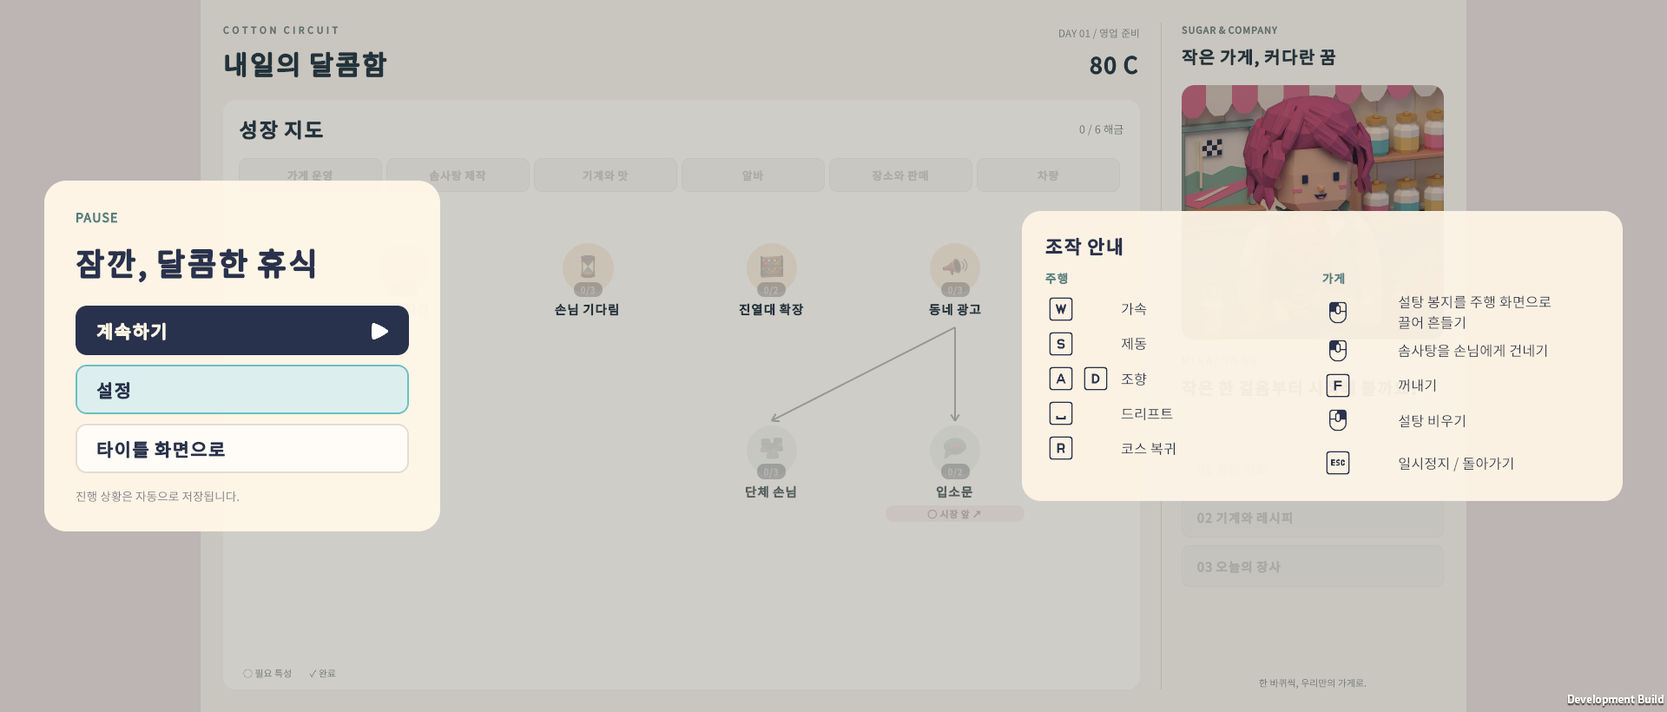
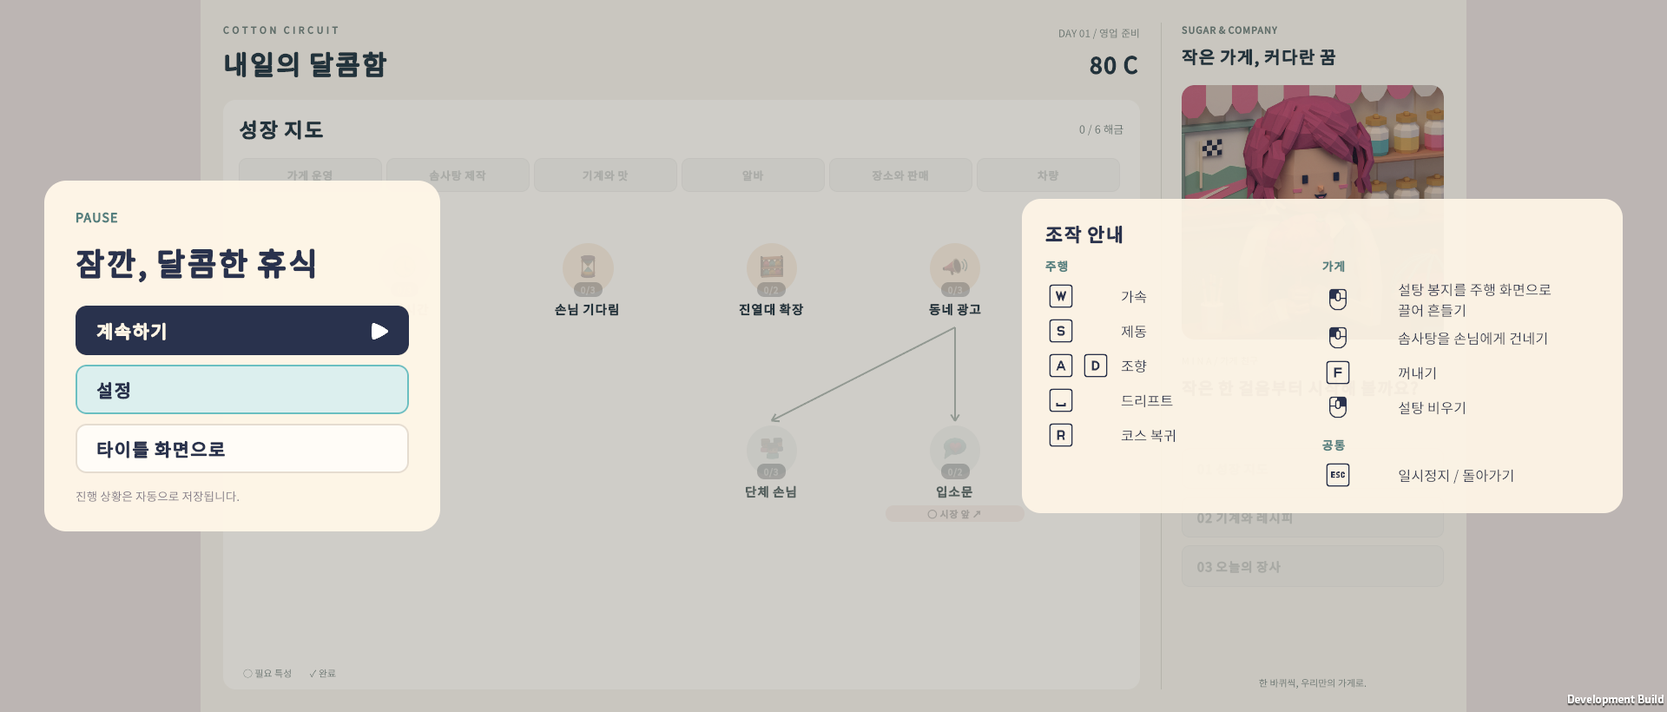
Record the final fix wave verification
The verification record now lists the twelve review fixes and the checks
that cover them, the single remaining overflow exemption with the probe
evidence behind removing the other seventeen, the twelve smoke runs on a
clean Builds/Loc-Final (928/33/878/106/18/242 checks per language), Core
tests, the release build and its 10 s launch, and refreshed screenshots
including the legacy pause and a live language switch over preparation.

diff --git a/docs/localization-settings-verification.md b/docs/localization-settings-verification.md
@@ -1,6 +1,23 @@
 # 영어 커버리지 검사와 릴리스 검증
 
-2026-09-29, Unity 6000.5.3f1 Windows. 브랜치 `claude/localization-settings` (Task 11, 기준 커밋 `a0d4283`).
+2026-09-29, Unity 6000.5.3f1 Windows. 브랜치 `claude/localization-settings`. Task 11(기준 커밋 `a0d4283`)에서 처음 기록했고, 브랜치 전체 리뷰 뒤 최종 수정(기준 커밋 `7ff2c20`)에서 넘침 예외·실행 기록·검사 목록을 다시 맞췄다.
+
+## 최종 리뷰 수정에서 바뀐 것
+
+| 번호 | 내용 | 새 검사 |
+|---|---|---|
+| 1 | 영업 준비 화면의 데이터 지문(`PreparationDataFingerprint`)에 `Strings.Version`을 넣었다. 일시정지 설정창에서 언어를 바꾸면 특성·장비·장소 문구도 새 언어로 다시 그린다. | `settings`: 영업 준비 위에서 언어를 바꾼 뒤 `PreparationTraitCount`, `PreparationMachineName_0`, 바인딩된 `pause.title`이 새 언어인지 보고, 바꾼 화면을 `settings-pause-switched.png`로 캡처(영어로 바뀌면 한글 누출 검사도 적용)한 뒤 되돌려 다시 본다. 지문 줄을 뺀 임시 빌드에서는 이 검사가 실패했다. |
+| 2 | 넘침 검사의 측정 방법을 고치고 예외를 한 개만 남겼다. | 아래 "넘침 검사"와 "기존 한국어 넘침" 참고. |
+| 3 | 설정창이 마지막으로 초점을 가진 행을 기억해, 카드 빈 곳이나 어두운 바깥을 눌러 초점이 사라지면 그 행에 초점을 돌려준다. 행 안의 화살표·음소거·슬라이더는 원래도 누르면 그 행에 초점을 줬다. | `settings`: 언어 화살표, 슬라이더 누르기, 음소거 버튼, 카드 빈 곳, 바깥 클릭 뒤 정확히 어느 행에 초점이 있는지 확인. 스모크의 `Key()`는 초점이 없으면 실제 입력처럼 패널 루트로 보낸다. 가드를 빼고 돌리면 카드 빈 곳 클릭 뒤 초점이 없어 실패했다. |
+| 4 | 슬라이더를 끄는 동안은 값만 바로 적용하고 `settings.json`은 손을 뗄 때(`PointerCaptureOutEvent`), 키보드로 값을 바꿀 때, 창을 닫을 때 쓴다(`SettingsStore.Apply(change, persist: false)`, `SettingsStore.Save()`). | `settings`: 슬라이더 값을 바꾼 직후 파일은 그대로, 음악 슬라이더 트랙을 눌렀다 떼면 파일에 새 값. |
+| 5 | Tab·Shift+Tab(`Next`/`Previous`)은 값을 바꾸지 않고 ↓·↑처럼 행만 옮긴다. | `settings`: Tab, Shift+Tab 뒤 초점 행과 음량. |
+| 6 | 없는 키를 처음 요청하면 `Strings.MissingKey`가 한 번 알리고, `Localization`이 개발 빌드·에디터에서 `Debug.LogWarning`으로 남긴다. | Core 테스트: 키마다 한 번만 알림. 열두 번의 스모크 로그에 경고 없음. |
+| 7 | `Strings.Validate`가 `string.Format`이 거부하는 값(짝 없는 중괄호)도 찾는다. | Core 테스트: 중괄호가 남은 값은 문제 1건, `{{…}}`는 문제 없음. |
+| 8 | `Art/UI/kenney_input-prompts_1.5.zip`을 다른 Kenney 압축 파일처럼 커밋했다. | — |
+| 9 | 일시정지 조작 안내에 `공통`(`pause.common`, `General`) 묶음을 따로 두고 `Esc`를 옮겼다. 가게 묶음 아래 같은 라벨 열에 있고 모든 모드에서 보인다. 이전 모드는 가게 묶음 전체를 숨긴다. | `full`: 영업 일시정지에서 가게·공통 묶음이 보임. `full`·`legacy`: 이전 모드 일시정지(`11-legacy-pause.png`)에서 공통 묶음만 보이고 가게 제목이 없음. |
+| 10 | 영어 문구 네 곳: `tutorial.step3.cue`, `trait.stick_quality.desc`/`trait.quality_focus.desc`(`%p` → `pts`), `notice.drift.kart`, `business.grade`(`Grade {0} sugar`). 한국어는 그대로다. | — |
+| 11 | 설계 문서의 키캡 가져오기 설정과 검사 위치 설명을 실제와 맞췄다(아래 3절). | — |
+| 12 | 쓰지 않는 `Strings.Keys`를 지우고 `GameSettings.Clamp`를 `if`로 풀어 썼다(동작 같음). | Core 테스트: ±무한대가 1과 0으로 제한됨. |
 
 ## 변경
 
@@ -9,75 +26,69 @@
 `ToolkitRuntimeSmoke.Capture(name)`가 스크린샷을 찍기 직전에 `CheckVisibleText(name)`을 부른다. 모든 `UIDocument`의 화면에 보이는 `TextElement`를 모두 훑어서 다음을 확인한다.
 
 - 영어일 때 한글이 남아 있으면 실패.
-- `MeasureTextSize`로 잰 글자 크기가 요소의 내용 폭(줄바꿈 라벨은 높이)을 넘으면 실패. 이름이 `OverflowExempt`에 있는 요소는 제외한다.
+- `MeasureTextSize`로 잰 글자 크기가 요소 내용 상자를 넘으면 실패. 줄바꿈 라벨(`white-space: normal`, `pre-wrap`)은 내용 폭 + 1.5px에서 잰 높이만, 줄바꿈하지 않는 라벨은 폭과 높이를 1.5px 여유로 비교한다. 이름이 `OverflowExempt`에 있는 요소는 제외한다.
 - `Strings.Missing`에 키가 남아 있으면 실패.
 
-이 검사는 `full`·`legacy`·`rack`·`hud`·`music`·`settings` 여섯 케이스가 이미 찍던 모든 캡처(약 30곳, 해상도 스윕 포함)에 자동으로 적용된다. 새 `06-closing-receipt.png` 캡처(영업 마감 직후, `businessNextDay`를 누르기 전)도 `full` 케이스에 추가해 `business.result.*` 영수증 카드를 커버했다.
+이 검사는 `full`·`legacy`·`rack`·`hud`·`music`·`settings` 여섯 케이스가 찍는 모든 캡처(한 언어에 50곳, 해상도 스윕 포함 — 두 언어 합쳐 100번)에 자동으로 적용된다. 새 `06-closing-receipt.png` 캡처(영업 마감 직후, `businessNextDay`를 누르기 전)도 `full` 케이스에 추가해 `business.result.*` 영수증 카드를 커버했다.
 
 ### 2. 폭 처리 항목(컨트롤러가 넘긴 6가지)
 
 1. **공백 붕괴** — `title.eyebrow`, `title.footer`, `Preparation.uxml`의 정적 `prep-eyebrow` 텍스트("C O T T O N   C I R C U I T")는 모두 `white-space: normal`(Shared.uss의 전역 `Label` 규칙)을 물려받는 라벨인데, 실제 UI Toolkit 렌더링에서는 이 세 요소의 공백이 (한 칸이든 여러 칸이든) 전부 사라져 "COTTONCIRCUIT", "SWEETRACINGSHOP", "↑ ↓ 메뉴 선택 Enter 선택"처럼 붙어 나왔다(수정 전 `01-title.png` 캡처로 확인). U+00A0(NBSP)로 바꾸니 렌더링에서 살아남아 의도한 간격이 그대로 나왔다 — 한국어·영어 모두, `· ` 대체 없이 해결됨. `title.eyebrow`/`title.footer`는 `strings.tsv`의 두 언어 칸 모두, `prep-eyebrow`는 UXML의 정적 텍스트(언어 공용이라 표에 없음)를 고쳤다. 한국어 문구 자체는 바꾸지 않았다.
-2. **일시정지 조작 안내 정렬** — `.pause-keys`(글자 키 1개 또는 A/D 2개를 담는 줄)가 자동 폭이라 1키 줄(44px)과 2키 줄(88px)의 라벨 시작 위치가 달랐다. `.pause-keys { width: 88px; }`로 고정해(가장 넓은 A/D 그룹 기준) 모든 줄의 라벨이 한 열로 맞춰지도록 했다. 마지막 키의 자체 여백(4px) + `.pause-keys`의 `margin-right`(8px) = 12px 간격은 그대로다.
+2. **일시정지 조작 안내 정렬** — `.pause-keys`(글자 키 1개 또는 A/D 2개를 담는 줄)가 자동 폭이라 1키 줄(44px)과 2키 줄(88px)의 라벨 시작 위치가 달랐다. `.pause-keys { width: 88px; }`로 고정해(가장 넓은 A/D 그룹 기준) 모든 줄의 라벨이 한 열로 맞춰지도록 했다. 마지막 키의 자체 여백(4px) + `.pause-keys`의 `margin-right`(8px) = 12px 간격은 그대로다. 최종 수정에서 새로 생긴 `공통` 묶음의 `Esc` 줄도 같은 규칙을 쓰므로 가게 묶음과 같은 열에 맞는다.
 3. **`pause.sugar` 한글 줄바꿈** — 1280×720에서 "설탕 봉지를 주행 화면으로 끌어 흔들 / 기"처럼 "흔들기" 한 단어 중간이 잘렸다. 한국어 값에 공백 위치(화면으로 / 끌어) 그대로 `\n`을 넣어 "설탕 봉지를 주행 화면으로\n끌어 흔들기"로 고쳤다. 영어 값은 문장이라 그대로 두고 자동 줄바꿈에 맡겼다. 1280×720·1600×900·1920×820(설정 케이스의 해상도 스윕)에서 한국어·영어 모두 캡처로 확인했다 — 단어 중간에서 끊기지 않고 두 줄 안에 들어간다.
-4. **구현자 영문 톤 점검** — `tutorial.*`, `notice.*`, `prep.*`, `trait.*`, `effect.*`, `machine.*`, `location.*` 영어 칸(약 210행)을 전부 다시 읽었다. 용어집과 어긋나거나 번역투인 곳은 없었다. 유일한 수정은 `tutorial.guide.pick`: `"① Press and hold here"` → `"① Press and hold"`. `.tutorial-guide-label`이 `white-space: nowrap`이라 실제로 잘리지는 않지만 마커 폭(209px)보다 넓어(221px) 옆으로 삐져나왔다(오배송 방지를 위한 실제 캡처로 확인). 다른 안내 문구(`② Drag to the track`, `③ Shake up and down`)와 같은 짧은 동사구 톤으로 맞추면서 폭도 해결했다. 한국어·키는 그대로다.
+4. **구현자 영문 톤 점검** — `tutorial.*`, `notice.*`, `prep.*`, `trait.*`, `effect.*`, `machine.*`, `location.*` 영어 칸(약 210행)을 전부 다시 읽었다. 이때 고친 곳은 `tutorial.guide.pick`: `"① Press and hold here"` → `"① Press and hold"`. `.tutorial-guide-label`이 `white-space: nowrap`이라 실제로 잘리지는 않지만 마커 폭(209px)보다 넓어(221px) 옆으로 삐져나왔다(오배송 방지를 위한 실제 캡처로 확인). 다른 안내 문구(`② Drag to the track`, `③ Shake up and down`)와 같은 짧은 동사구 톤으로 맞추면서 폭도 해결했다. 최종 리뷰에서 네 곳을 더 다듬었다(위 표 10번). 한국어·키는 그대로다.
 5. **`Legacy.uxml` 미리보기 언어 통일** — `Legacy.uxml`의 바인딩된 요소(예: `business.title`, `legacy.pause`, 주문·재고·크기·맛·차량 버튼, 조작 안내, 결과 화면) 전부가 영어 미리보기 텍스트("Cotton Circuit", "Help · Esc", "Choose order" 등)를 쓰고 있었다. `Title.uxml`·`Preparation.uxml`·`Game.uxml`은 바인딩된 요소에 한국어 미리보기를 쓴다(예: `title.new`의 `text="새 게임"`). `Legacy.uxml`의 18개 바인딩 요소 전부를 해당 키의 한국어 값으로 바꿔 통일했다. `legacyMakeStock`처럼 C#이 직접 쓰는(바인딩 없는) 요소는 룰링 R1대로 영어 미리보기를 그대로 뒀다. `Business.uxml`의 `business.title`(`biz-title`)도 같은 방식(영어 미리보기)을 쓰고 있었지만 이번 항목이 지목한 대상이 아니라 손대지 않았다.
 6. **영업 마감 영수증과 알림 토스트** — `business.result.*` 영수증 카드는 "1. 모든 캡처에..." 절에 적은 새 `06-closing-receipt.png`로 실제 커버했다(새 검사도 통과). 알림 토스트(`notice.nextday.legacy`, `notice.lap.done.waiting`)는 캡처를 추가하지 못했다: 전자는 레거시(비연속·비진행형) 영업일을 실제로 마감하고 `StartNextDay()`까지 불러야 하는데 지금 `Legacy.uxml`에는 스모크가 누를 수 있는 "다음 날" 버튼이 없고, 후자는 연속 모드에서 진열대가 가득 찬 채로 한 바퀴 생산을 완주해야 해 둘 다 "적은 코드로" 재현할 수 있는 범위를 넘는다. 대신 `Game.uss`의 CSS로 넘침 가능성을 따졌다: `.notice-toast { position: absolute; left: 400px; right: 400px; bottom: 27px; ...; -unity-text-align: middle-center; font-size: 17px; }` — 높이가 고정이 아니라(`height` 없음) 줄바꿈된 내용만큼 위로 자라고, 폭은 뷰포트에 따라 `뷰포트 폭 − 800px`로 정해진다(1280px 폭이면 480px, 1600px 기본 해상도면 800px, 1920px면 1120px). 두 알림 중 가장 긴 영어 문구는 `notice.nextday.legacy`("New business day! Cleared the shelf, sugar, and candy in progress — new customers are here.", 91자)이고 `notice.lap.done.waiting`("Lap done! Candy stored · Reward +{0} coins · Shelf is full, production is waiting.", 자리표시자 포함 82자)이 그 다음이다. 둘 다 `·`나 쉼표로 자연스럽게 끊기는 짧은 단어들의 나열이라 가장 좁은 480px에서도 단어 중간이 아니라 단어 경계에서 여러 줄로 접히고, 높이가 고정이 아니므로 잘리지 않는다. 같은 `.notice-toast`/`NoticeText` 메커니즘은 스모크가 실제로 띄우는 다른 알림(예: `pause.png`에 보이는 `notice.extract.none`)에서 이미 새 검사를 통과했다.
 
 ### 3. `docs/superpowers/specs/2026-09-29-localization-settings-pause-design.md` 갱신
 
-"4. 검증"의 "에디터 통합 검사(`Editor/IntegrationChecks.cs`)" 절을 "정적 검사(`python Tools/check-localization.py`)" 절로 바꿨다. 키캡 스프라이트 가져오기 설정 확인만 `IntegrationChecks.cs`(개발 빌드)에 남는다고 명시했다. 문구 넘침 절도 Task 11에서 실제로 구현한 범위(모든 케이스·모든 언어·모든 캡처, `Label`/`Button`뿐 아니라 모든 `TextElement`)로 고쳤다.
+"4. 검증"의 "에디터 통합 검사(`Editor/IntegrationChecks.cs`)" 절을 "정적 검사(`python Tools/check-localization.py`)" 절로 바꿨다. 문구 넘침 절도 실제로 구현한 범위(모든 케이스·모든 언어·모든 캡처, `Label`/`Button`뿐 아니라 모든 `TextElement`, 1.5px 여유)로 고쳤다.
+
+Task 11 때는 "키캡 스프라이트 가져오기 설정 확인만 `IntegrationChecks.cs`에 남는다"고 적었지만 사실이 아니었다. `IntegrationChecks`의 스프라이트 수 검사는 `Assets/CottonCircuit/Sprites/`만 훑고, 새 키캡 이미지는 스프라이트도 아니다(`KeyF.png`처럼 기본 텍스처, 밉맵 켜짐, 알파 투명). 최종 수정에서 설계 문서를 "자동 검사는 없고, 아홉 개 `.meta`가 guid 말고는 `KeyF.png.meta`와 같다는 것을 파일 비교로 확인했다"로 고쳤다. 정적 검사기가 표의 형식(머리글·칸 수·중복 키)만 보고, 빈 칸·자리표시자·형식 문자열은 Core 테스트(`Strings.Validate`)가 본다는 점도 바로잡았다.
+
+## 넘침 검사 — 측정 방법 수정
+
+Task 11에서는 줄바꿈 라벨을 `MeasureTextSize(text, box.width, Exactly, ...)`, 즉 레이아웃이 정한 폭 그대로 다시 쟀다. 자동 폭/`flex-shrink` 라벨은 상자가 글자에 딱 맞게 잡히는데, 레이아웃이 폭을 픽셀 격자로 반올림하기 때문에 같은 폭에서 다시 재면 한 줄이 두 줄로 넘어가 높이가 넘친다고 잘못 판단했다(예: `PreparationDay` "DAY 01 / Prep"). 그래서 이 브랜치가 새로 만들거나 문구를 바꾼 요소 16개를 예외로 넣었었다: `PreparationDay`, `PreparationWallet`, `PreparationTraitCount`, `PrepLegendRequired`, `PrepLegendDone`, 그리고 일시정지 조작 안내의 `PauseAccelerateLabel`, `PauseBrakeLabel`, `PauseSteerLabel`, `PauseDriftLabel`, `PauseBoostLabel`, `PauseRecoverLabel`, `PauseSugarLabel`, `PauseDeliverLabel`, `PauseExtractLabel`, `PauseEmptyLabel`, `PauseEscapeLabel`.
+
+최종 수정에서 줄바꿈 라벨을 비교할 때 쓰는 여유와 같은 값(`FitTolerance` = 1.5px)만큼 넓혀서 재도록 바꾸고, 줄바꿈 라벨은 높이만 비교한다(`Exactly` 모드는 넘겨 준 폭을 그대로 돌려주므로 폭 비교는 의미가 없다). `white-space: pre-wrap`도 줄바꿈 라벨로 본다. 이 16개를 예외에서 빼고 열두 번 모두 통과했다.
+
+예외가 실제로 필요한지는 따로 확인했다. 예외 이름을 건너뛰는 대신 넘치면 로그만 남기는 임시 빌드(`Builds/Loc-Probe`, 커밋하지 않음)로 열두 번을 돌렸다(`Logs/Loc-probe-*`).
+
+- `BusinessTitleEyebrow`: 40번 넘침. 글자 높이 37px, 상자 32px(두 언어 모두). 실제 넘침이다.
+- `TraitDetailsBody`: 2번(`graph-hover.png`, 두 언어). 영어 297×82가 290×102 상자에, 한국어 309×82가 같은 상자에 들어가지 않는다고 나왔다. 이 라벨은 `white-space: pre-wrap`인데 검사가 `normal`만 줄바꿈으로 보고 한 줄로 재서 생긴 오판이다. 캡처에서는 상자 안에서 정상적으로 줄바꿈된다. 검사가 `pre-wrap`을 줄바꿈으로 보도록 고치자 예외 없이 통과했다.
 
 ## 기존 한국어 넘침 — 이 브랜치가 손대지 않은 레이아웃
 
-새 검사가 이 브랜치 이전부터 있던 한국어 넘침을 찾아냈다. 레이아웃을 다시 설계하지 않고 이름으로 예외 처리했다(`OverflowExempt`).
+이제 `OverflowExempt`에는 한 개만 남는다.
 
 | 이름 | 위치 | 사유 |
 |---|---|---|
-| `BusinessTitleEyebrow` | `Business.uxml`의 `business.title`("Cotton Circuit") | `.biz-title-row`가 `height: 32px`로 고정인데 한국어 볼드 25px 글자는 37px가 필요하다. 이 CSS는 병합 기준 커밋(`e1c344a`)과 동일 — 이번 브랜치는 물론 로컬라이제이션 작업 전체가 손대지 않았다. (`Legacy.uxml`의 같은 `business.title` 라벨은 `.legacy-header`가 `height: 90px`로 훨씬 여유로워 실제로 넘치지 않는다. 처음에는 같은 이름 `BusinessTitleEyebrow`를 재사용해 두 요소가 한 예외로 묶여 있었는데 — `Legacy.uxml` 쪽은 이 사유가 적용되지 않으므로 `LegacyTitle`로 따로 이름을 붙이고 `OverflowExempt`에서 뺐다. `-Case legacy -Language ko/en`을 다시 돌려 예외 없이도 통과하는 것을 확인했다(아래 "재검증" 참고).) |
-| `TraitDetailsBody` | `Preparation.uxml`의 특성 상세 툴팁(성장 지도 호버) | `.trait-details { width: 330px }`는 이 SDD의 Task 1(`488b583`)보다 앞선 `82c6538`(성장 지도 UI Toolkit 복원)에서 그대로 들어왔고 이후 바뀐 적이 없다. |
-| `PreparationDay`, `PreparationWallet`, `PreparationTraitCount` | `Preparation.uxml`의 헤더(DAY/지갑/해금 수) | `.prep-header`/`.prep-wallet-group`/`.prep-day`/`.prep-wallet`은 `e98d2b3`(UI Toolkit 전면 이관, `82c6538`·`488b583`보다도 앞선 커밋)부터 있던 CSS로 이후 바뀐 적이 없다. |
-| `PrepLegendRequired`, `PrepLegendDone` | `Preparation.uxml`의 범례(`○ 필요 특성` / `✓ 완료`) | `.prep-legend`/`.prep-legend-item`도 `82c6538`에서 지금 모습으로 바뀐 뒤 이 SDD 어느 태스크도 손대지 않았다. |
+| `BusinessTitleEyebrow` | `Business.uxml`의 `business.title`(`솜사탕 서킷` / `Cotton Circuit`) | `.biz-title-row`가 `height: 32px`로 고정인데 볼드 25px 글자는 37px가 필요하다. 이 CSS는 병합 기준 커밋(`e1c344a`)과 동일 — 이번 브랜치는 물론 로컬라이제이션 작업 전체가 손대지 않았다. 한국어 문구도 브랜치 이전과 같다. (`Legacy.uxml`의 같은 `business.title` 라벨은 `LegacyTitle`로 따로 이름을 붙였고 `.legacy-header`가 `height: 90px`라 예외 없이 통과한다.) |
 
-이 네 항목(위 표의 `PreparationDay`~`PrepLegendDone`)은 모두 `MeasureTextSize`가 실제 렌더링보다 넓은 폭이 필요하다고 잘못 계산해 걸린 것이지만(아래 문단 참고), 레이아웃 자체가 이 브랜치 이전부터 있던 것이라 위 표에 넣었다.
-
-## `MeasureTextSize` 측정 오차로 확인된 항목
-
-자동 폭/`flex-shrink` 라벨에서 `MeasureTextSize(text, box.width, Exactly, ...)`가 실제 렌더링보다 넓은 폭을 필요로 한다고 계산해, 한 줄이면 되는 텍스트를 두 줄로 잘못 예측하는 경우가 있었다(예: `PreparationDay`가 1600×900에서 20px 박스에 38px가 필요하다고 보고했지만, 그 순간의 `pause-1600x900.png` 캡처를 보면 "DAY 01 / Prep"이 한 줄로 멀쩡하게 나온다). 박스 자체가 콘텐츠에 딱 맞게 잡혀 있어, Yoga가 확정한 폭과 `MeasureTextSize`를 별도로 다시 호출했을 때의 줄바꿈 판단이 서브 픽셀 경계에서 어긋나는 것으로 보인다. 위 표의 `PreparationDay`~`PrepLegendDone` 네 항목이 이 증상이고, 나머지 11개(`PauseAccelerateLabel`, `PauseBrakeLabel`, `PauseSteerLabel`, `PauseDriftLabel`, `PauseBoostLabel`, `PauseRecoverLabel`, `PauseSugarLabel`, `PauseDeliverLabel`, `PauseExtractLabel`, `PauseEmptyLabel`, `PauseEscapeLabel`, 일시정지 조작 안내의 `.pause-row-label`)는 같은 증상이지만 원인이 다르다: 이 브랜치가 이번 태스크의 항목 2에서 `.pause-keys`를 `width: 88px`로 고정하면서 1글자 키 줄의 라벨이 쓸 수 있는 폭이 좁아졌고, 그 결과 좁은 해상도(1280×720)에서 이 서브 픽셀 경계에 걸리게 됐다 — 즉 이 11개는 이 브랜치 자신의 레이아웃 변경이 원인이다. 두 그룹 모두 실제 화면(1280×720·1600×900·1920×820, 한국어·영어)을 스크린샷으로 하나씩 대조해 전부 한 줄로, 잘리거나 겹치지 않고 나오는 것을 확인한 뒤 이름을 붙여 제외했다. 요소들은 전부 이름이 없었어서(`text.name` 매칭을 쓰려면 필요) `Game.uxml`/`Preparation.uxml`에 `name`만 추가했고, 문구나 레이아웃은 바꾸지 않았다.
+예외 수는 18개(Task 11 기록은 16개라고 잘못 적었다)에서 1개로 줄었다.
 
 ## 검증
 
 ### 열두 번의 스모크 실행
 
-`Tools/build.ps1 -BuildFolder Builds/Loc`로 개발 빌드를 한 번 만든 뒤, 여섯 케이스 × 두 언어를 전부 돌렸다. 격리 저장 폴더는 실행마다 새 GUID를 쓴다.
+`Tools/build.ps1 -BuildFolder Builds/Loc-Final`로 비어 있는 폴더에 개발 빌드를 새로 만든 뒤(141개 통합 검사 통과), 여섯 케이스 × 두 언어를 전부 돌렸다. 격리 저장 폴더는 실행마다 새 GUID를 쓴다.
 
-| 케이스 | 언어 | 결과 | 통과 수 | 기록 |
-|---|---|---:|---:|---|
-| full | ko | PASSED | 921 | `Logs/Loc-final-full-ko2` |
-| full | en | PASSED | 921 | `Logs/Loc-final-full-en2` |
-| legacy | ko | PASSED | 27 | `Logs/Loc-final-legacy-ko` |
-| legacy | en | PASSED | 27 | `Logs/Loc-final-legacy-en` |
-| rack | ko | PASSED | 878 | `Logs/Loc-final-rack-ko` |
-| rack | en | PASSED | 878 | `Logs/Loc-final-rack-en` |
-| hud | ko | PASSED | 106 | `Logs/Loc-final-hud-ko` |
-| hud | en | PASSED | 106 | `Logs/Loc-final-hud-en` |
-| music | ko | PASSED | 18 | `Logs/Loc-final-music-ko` |
-| music | en | PASSED | 18 | `Logs/Loc-final-music-en` |
-| settings | ko | PASSED | 184 | `Logs/Loc-final-settings-ko` |
-| settings | en | PASSED | 184 | `Logs/Loc-final-settings-en` |
+| 케이스 | 언어 | 결과 | 통과 수 | 캡처 | 기록 |
+|---|---|---|---:|---:|---|
+| full | ko | PASSED | 928 | 25 | `Logs/Loc-fix-full-ko` |
+| full | en | PASSED | 928 | 25 | `Logs/Loc-fix-full-en` |
+| legacy | ko | PASSED | 33 | 3 | `Logs/Loc-fix-legacy-ko` |
+| legacy | en | PASSED | 33 | 3 | `Logs/Loc-fix-legacy-en` |
+| rack | ko | PASSED | 878 | 5 | `Logs/Loc-fix-rack-ko` |
+| rack | en | PASSED | 878 | 5 | `Logs/Loc-fix-rack-en` |
+| hud | ko | PASSED | 106 | 6 | `Logs/Loc-fix-hud-ko` |
+| hud | en | PASSED | 106 | 6 | `Logs/Loc-fix-hud-en` |
+| music | ko | PASSED | 18 | 0 | `Logs/Loc-fix-music-ko` |
+| music | en | PASSED | 18 | 0 | `Logs/Loc-fix-music-en` |
+| settings | ko | PASSED | 242 | 11 | `Logs/Loc-fix-settings-ko` |
+| settings | en | PASSED | 242 | 11 | `Logs/Loc-fix-settings-en` |
 
-각 언어 쌍의 통과 수가 정확히 같다(921/921, 27/27, 878/878, 106/106, 18/18, 184/184) — 두 언어가 같은 화면·같은 개수의 검사를 통과했다는 뜻이다. `full en`은 첫 실행에서 `tutorial.guide.pick` 넘침으로 한 번 실패했고(위 "구현자 영문 톤 점검" 참고), 고친 뒤 재실행해 통과했다.
-
-### 재검증 (리뷰 수정 1회차)
-
-`Legacy.uxml`의 `business.title` 라벨을 `LegacyTitle`로 새로 이름 붙이고 `OverflowExempt`에서 뺀 뒤(위 "기존 한국어 넘침" 표 참고) 개발 빌드를 다시 만들어 세 케이스를 다시 돌렸다. 셋 다 이전과 같은 통과 수로 PASSED — `LegacyTitle`은 예외 없이도 넘치지 않는다.
-
-| 케이스 | 언어 | 결과 | 통과 수 | 기록 |
-|---|---|---:|---:|---|
-| legacy | ko | PASSED | 27 | `Logs/Loc-final-legacy-ko2` |
-| legacy | en | PASSED | 27 | `Logs/Loc-final-legacy-en2` |
-| full | en | PASSED | 921 | `Logs/Loc-final-full-en3` |
-
-`full`은 레거시 화면(`11-legacy-continuous.png`, `12-legacy-shop.png`)도 지나가므로 영어로 다시 돌려 확인했다.
+각 언어 쌍의 통과 수가 같다. Task 11 기록(921, 27, 878, 106, 18, 184)과 비교하면 `full`은 +7(영업 일시정지의 묶음 검사 1개, 이전 모드 일시정지 검사 1개와 그 캡처 5개), `legacy`는 +6(이전 모드 일시정지 검사와 캡처), `settings`는 +58(Tab 이동, 초점 유지 6곳, 슬라이더 저장, 영업 준비 위 언어 전환 두 번과 그 캡처)이다. 모든 `player.log`에 예외·오류와 `Missing localization key` 경고가 없다.
 
 ### Core 테스트와 정적 검사
 
@@ -86,7 +97,7 @@ powershell -ExecutionPolicy Bypass -File Tools/test-all.ps1
 python Tools/check-localization.py
 ```
 
-- `Tools/test-all.ps1`: 18개 스크립트 전부 PASS.
+- `Tools/test-all.ps1`: 18개 스크립트 전부 PASS. `test-localization.ps1`은 20개 테스트(최종 수정에서 형식 문자열·누락 키 알림 2개 추가, 범위 제한 테스트에 ±무한대 추가).
 - `python Tools/check-localization.py`: 프로젝트 전체 56개 파일, 0 problem.
 
 ### Release 빌드와 실행
@@ -95,52 +106,51 @@ python Tools/check-localization.py
 powershell -ExecutionPolicy Bypass -File Tools/build.ps1 -Release -BuildFolder Builds/Loc-Release
 ```
 
-`Build ready: Builds\Loc-Release\CottonCircuit.exe`. 다음으로 실행 파일을 직접 띄워 10초 뒤 종료했다.
+비운 폴더에 `Build ready: Builds\Loc-Release\CottonCircuit.exe`(`build-info.json`의 `configuration`이 `Release`). 다음으로 실행 파일을 직접 띄워 10초 뒤 종료했다. 사용자의 `Player.log`를 덮어쓰지 않도록 로그는 작업 폴더로 돌렸다.
 
 ```powershell
-Builds\Loc-Release\CottonCircuit.exe -screen-fullscreen 0 -screen-width 1600 -screen-height 900 --language=en
+Builds\Loc-Release\CottonCircuit.exe -screen-fullscreen 0 -screen-width 1600 -screen-height 900 --language=en -logFile Logs\Loc-fix-release-launch\Player.log
 ```
 
-`%USERPROFILE%\AppData\LocalLow\SugarRoad Studio\Cotton Circuit\Player.log`에 `Exception`·`Error` 문자열이 없다. Direct3D 12 장치 초기화, 물리 백엔드, 입력 시스템까지 정상적으로 로그를 남기고 조용히 종료됐다(강제 종료라 `Application.Quit` 로그는 없다).
+10초 동안 실행 중이었고, 로그(37줄)에 `Exception`·`Error`·`Missing localization` 문자열이 없다. Direct3D 12 장치 초기화, 물리 백엔드, 입력 시스템까지 정상적으로 로그를 남겼다(강제 종료라 `Application.Quit` 로그는 없다).
 
 ### 캡처 시각 확인
 
-`full` 케이스 영어 캡처 전체와 `settings` 케이스의 해상도 스윕 캡처를 직접 열어 용어집과 대조했다. 버튼·HUD 문구가 겹치거나 잘리는 곳은 없었다. 대표 캡처를 `docs/screenshots/`에 복사했다.
+영어·한국어의 일시정지(`pause.png`, 해상도 스윕 `pause-*.png`, `11-legacy-pause.png`), 설정창(`settings-title.png`, `settings-pause.png`, `settings-*.png`, `settings-pause-switched.png`), 영업 준비(`07-preparation-traits.png`, `08-preparation-equipment.png`, `graph-hover.png`) 캡처를 직접 열어 확인했다. `공통` 묶음은 가게 묶음 아래 같은 라벨 열에 있고, 이전 모드에서는 가게 제목 없이 공통 묶음만 오른쪽 위에 선다. 한국어로 시작해 영어로 바꾼 `settings-pause-switched.png`는 영업 준비 화면 전체(제목, `DAY 01 / Prep`, 성장 지도 탭, 오른쪽 목록)가 영어다. 버튼·HUD 문구가 겹치거나 잘리는 곳은 없었다. 대표 캡처를 `docs/screenshots/`에 다시 복사했다.
 
 | 파일 | 출처 |
 |---|---|
-| `localization-title-en.png` | `Logs/Loc-final-full-en2/01-title.png` |
-| `localization-business-en.png` | `Logs/Loc-final-full-en2/09-worker-driving.png` |
-| `localization-prep-en.png` | `Logs/Loc-final-full-en2/07-preparation-traits.png` |
-| `localization-pause-ko.png` | `Logs/Loc-final-full-ko2/pause.png` |
-| `localization-pause-en.png` | `Logs/Loc-final-full-en2/pause.png` |
-| `localization-settings-ko.png` | `Logs/Loc-final-settings-ko/settings-title.png` |
-| `localization-settings-en.png` | `Logs/Loc-final-settings-en/settings-title.png` |
-| `localization-pause-1920x820.png` | `Logs/Loc-final-settings-ko/pause-1920x820.png` |
+| `localization-title-en.png` | `Logs/Loc-fix-full-en/01-title.png` |
+| `localization-business-en.png` | `Logs/Loc-fix-full-en/09-worker-driving.png` |
+| `localization-prep-en.png` | `Logs/Loc-fix-full-en/07-preparation-traits.png` |
+| `localization-pause-ko.png` | `Logs/Loc-fix-full-ko/pause.png` |
+| `localization-pause-en.png` | `Logs/Loc-fix-full-en/pause.png` |
+| `localization-settings-ko.png` | `Logs/Loc-fix-settings-ko/settings-title.png` |
+| `localization-settings-en.png` | `Logs/Loc-fix-settings-en/settings-title.png` |
+| `localization-pause-1920x820.png` | `Logs/Loc-fix-settings-ko/pause-1920x820.png` |
+| `localization-legacy-pause-en.png` | `Logs/Loc-fix-legacy-en/11-legacy-pause.png` |
+| `localization-prep-switched-en.png` | `Logs/Loc-fix-settings-ko/settings-pause-switched.png` |
 
 ### 빌드 후 diff
 
-빌드 두 번(`Loc`, `Loc-Release`) 모두 `ProjectSettings/*`, `NotoSansKR.asset`, `PanelSettings.asset`, `PanelTextSettings.asset`, `UniversalRenderPipelineGlobalSettings.asset`과 소재·메시·프리팹·`CottonCircuit.unity`가 다시 쓰였다. `git diff --ignore-all-space --stat`로 보면 실제 내용 변경은 없고(씬은 줄 수 164421·GameObject 697개로 `HEAD`와 동일), 알려진 비결정적 재생성 노이즈와 일치해 전부 `git checkout --`로 되돌렸다.
+빌드마다 `ProjectSettings/*`, `NotoSansKR.asset`, `PanelSettings.asset`, `PanelTextSettings.asset`, `UniversalRenderPipelineGlobalSettings.asset`과 소재·메시·프리팹·`CottonCircuit.unity`가 다시 쓰였다. 씬을 뺀 파일은 `git diff --ignore-all-space`로 보면 바뀐 내용이 없었고, 씬은 줄 수 164421·GameObject 697개로 `HEAD`와 같아 알려진 비결정적 재생성으로 보고 모두 `git checkout --`로 되돌렸다.
 
 ## 명령
 
 ```powershell
-powershell -ExecutionPolicy Bypass -File Tools/build.ps1 -BuildFolder Builds/Loc
-powershell -ExecutionPolicy Bypass -File Tools/verify-uitk.ps1 -BuildFolder Builds/Loc -Case full -Language ko -OutputFolder Logs/Loc-final-full-ko2
-powershell -ExecutionPolicy Bypass -File Tools/verify-uitk.ps1 -BuildFolder Builds/Loc -Case full -Language en -OutputFolder Logs/Loc-final-full-en2
-# legacy · rack · hud · music · settings, 두 언어 모두 동일한 방식
 powershell -ExecutionPolicy Bypass -File Tools/test-all.ps1
 python Tools/check-localization.py
+powershell -ExecutionPolicy Bypass -File Tools/build.ps1 -BuildFolder Builds/Loc-Final
+powershell -ExecutionPolicy Bypass -File Tools/verify-uitk.ps1 -BuildFolder Builds/Loc-Final -Case full -Language ko -OutputFolder Logs/Loc-fix-full-ko
+powershell -ExecutionPolicy Bypass -File Tools/verify-uitk.ps1 -BuildFolder Builds/Loc-Final -Case full -Language en -OutputFolder Logs/Loc-fix-full-en
+# legacy · rack · hud · music · settings, 두 언어 모두 같은 방식(Logs/Loc-fix-<케이스>-<언어>)
 powershell -ExecutionPolicy Bypass -File Tools/build.ps1 -Release -BuildFolder Builds/Loc-Release
-# 리뷰 수정 1회차: LegacyTitle 이름 변경 후 재빌드·재검증
-powershell -ExecutionPolicy Bypass -File Tools/build.ps1 -BuildFolder Builds/Loc
-powershell -ExecutionPolicy Bypass -File Tools/verify-uitk.ps1 -BuildFolder Builds/Loc -Case legacy -Language ko -OutputFolder Logs/Loc-final-legacy-ko2
-powershell -ExecutionPolicy Bypass -File Tools/verify-uitk.ps1 -BuildFolder Builds/Loc -Case legacy -Language en -OutputFolder Logs/Loc-final-legacy-en2
-powershell -ExecutionPolicy Bypass -File Tools/verify-uitk.ps1 -BuildFolder Builds/Loc -Case full -Language en -OutputFolder Logs/Loc-final-full-en3
 ```
 
 ![타이틀 화면 (영어)](screenshots/localization-title-en.png)
 
-![일시정지 조작 안내, 정렬 및 줄바꿈 수정 후 (한국어)](screenshots/localization-pause-ko.png)
+![일시정지 조작 안내, 공통 묶음 분리 후 (한국어)](screenshots/localization-pause-ko.png)
+
+![이전 모드 일시정지, 가게 묶음 없이 공통 묶음만 (영어)](screenshots/localization-legacy-pause-en.png)
 
 ![설정창 (영어)](screenshots/localization-settings-en.png)
